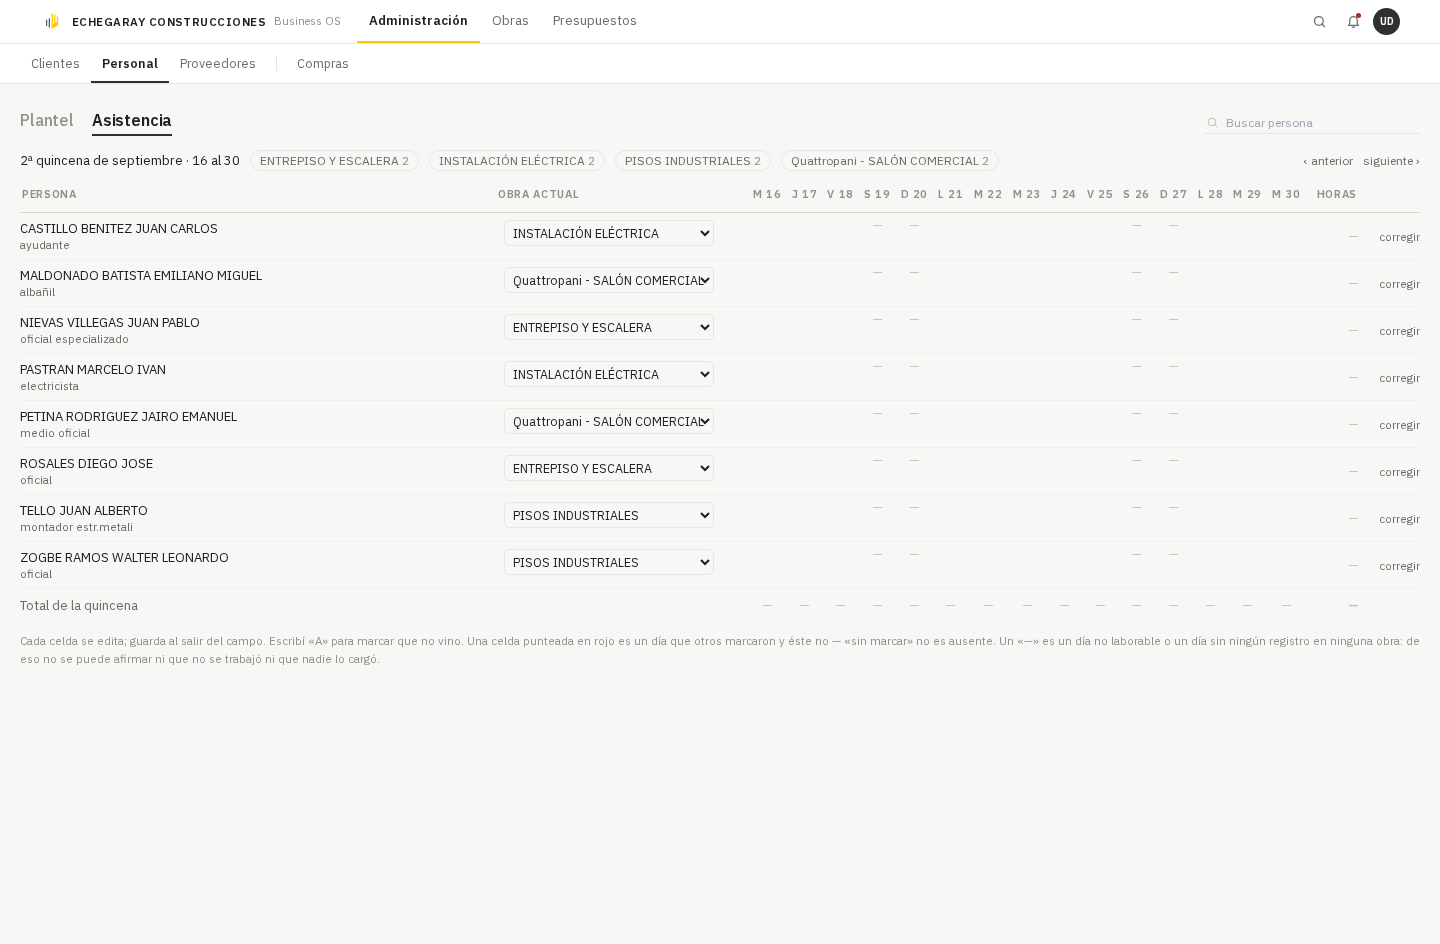
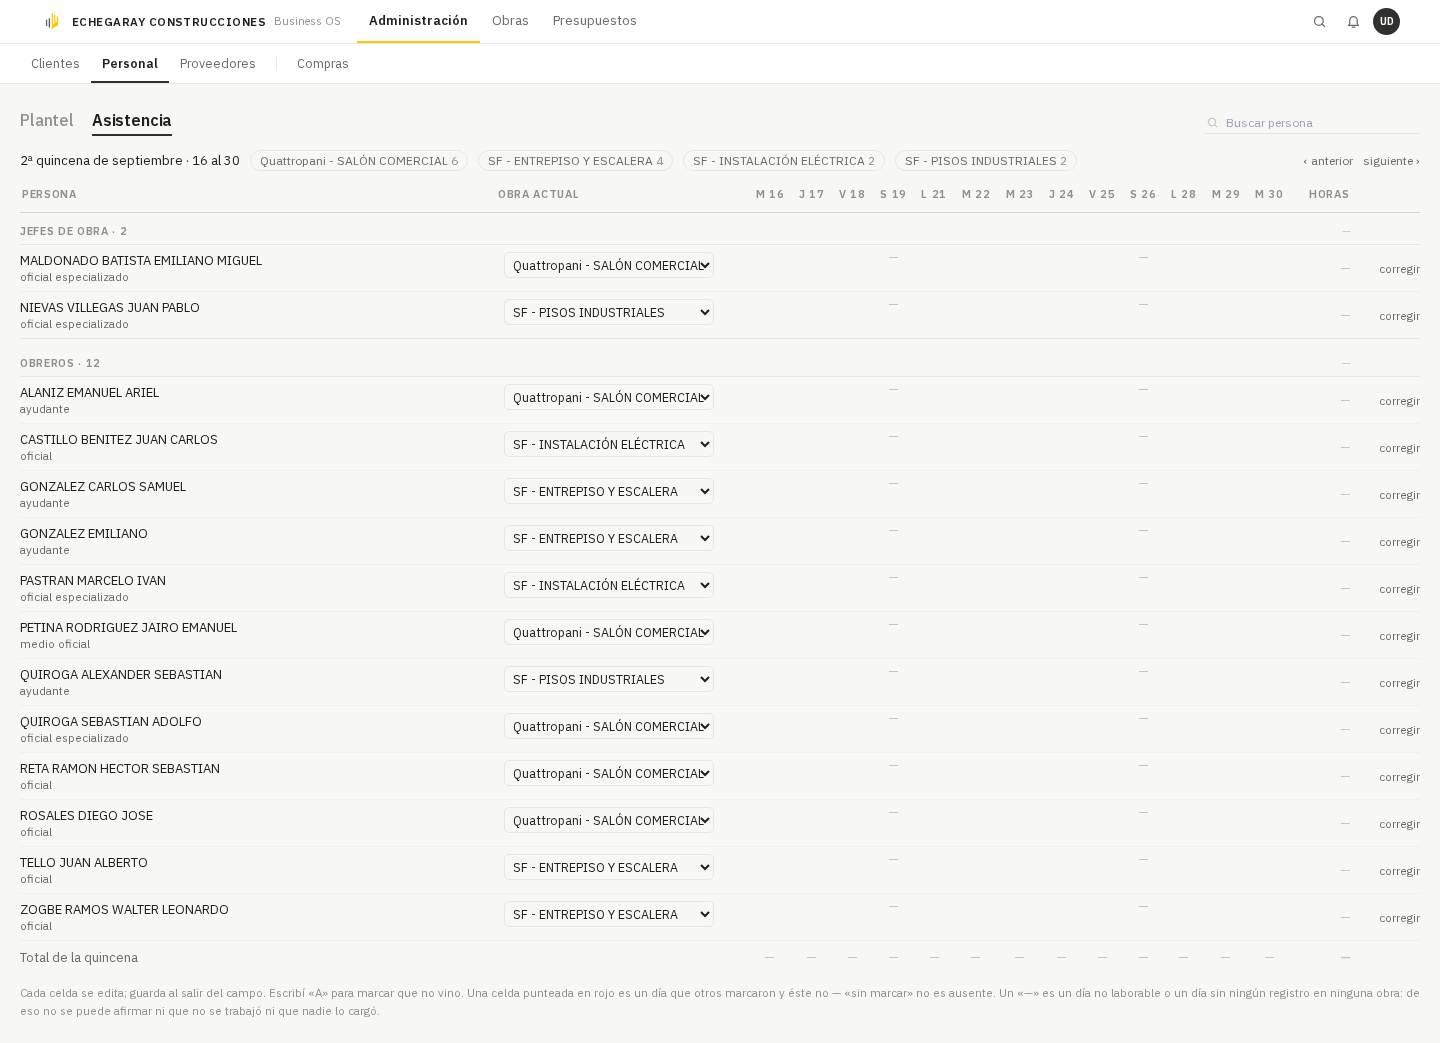
test(asistencia): el E2E afirma las dos secciones sin clavar quién es jefe
Lo que se prueba es el INVARIANTE: jefes primero, ninguna fila fuera de una
sección —la suma de los conteos de los rótulos tiene que dar exactamente las
filas dibujadas— y el «Total de la quincena» sigue existiendo y siendo global.

NO se clava que MALDONADO y NIEVAS sean los dos jefes: eso es dato vivo y un test
que lo fije se pone rojo el día que el dueño cargue un tercero, sin que ninguna
regla se haya roto. Qué campo decide el rol se prueba en vocabularioPersona.test.

Capturas del efecto en 1440: plantel-jefes-1440.png (Jefes de obra · 2 / Obreros ·
15) y asistencia-jefes-1440.png (mismos dos grupos, subtotal — y 569, total global
569).

diff --git a/echegaray-os/tests/asistencia-por-obra.spec.ts b/echegaray-os/tests/asistencia-por-obra.spec.ts
@@ -144,6 +144,48 @@ test('02 · la QUINCENA por obra abre en Administración → Personal', async ({
   await expect(page.getByTestId('vistas-personal')).toBeVisible()
 })
 
+// ═══ LOS DOS GRUPOS (dueño, 08/09/2026) ═══
+//
+// *«dividir en la pestaña asistencia y plantel a los jefes de obra del resto de los obreros»*.
+//
+// LO QUE SE AFIRMA ES EL INVARIANTE, NO QUIÉN ES JEFE HOY. Que MALDONADO y NIEVAS sean los dos
+// jefes es un dato vivo: mañana el dueño carga un tercero y un test que lo clave se pone rojo sin
+// que ninguna regla se haya roto. Lo que no puede cambiar es que los jefes vayan ARRIBA, que
+// ninguna fila quede fuera de una sección y que el total del pie los siga contando a todos.
+// El criterio en sí —qué campo lo decide— está probado en `vocabularioPersona.test.ts`.
+test('02c · la quincena se divide en JEFES DE OBRA y OBREROS, y el total sigue siendo de todos', async ({ page }) => {
+  await page.setViewportSize({ width: 1440, height: 900 })
+  await entrarComo(page, ADMIN.email, ADMIN.password)
+  await page.goto('/administracion/personas?vista=asistencia&quincena=2026-09-08')
+  await page.waitForLoadState('networkidle')
+  await expect(page.getByTestId('grilla-asistencia')).toBeVisible()
+
+  const rotulos = await page.getByTestId('fila-grupo').allInnerTexts()
+  const filas = await page.getByTestId('fila-quincena').count()
+
+  if (rotulos.length === 0) {
+    // NO HAY JEFES EN ESTA QUINCENA. Entonces NO puede haber un rótulo suelto: una sola sección se
+    // dibuja sin rótulo, que es como se veía la pantalla antes de este cambio.
+    expect(filas).toBeGreaterThan(0)
+    return
+  }
+
+  // JEFES PRIMERO, SIEMPRE. Si el orden se diera vuelta, este es el que se pone rojo.
+  expect(rotulos[0]).toContain('JEFE')
+  expect(rotulos[rotulos.length - 1]).toContain('OBRERO')
+
+  // NINGUNA FILA QUEDA FUERA DE UNA SECCIÓN. Los conteos del rótulo tienen que sumar exactamente
+  // las filas dibujadas: si el agrupamiento perdiera o duplicara a alguien, acá se ve.
+  const sumaDeRotulos = rotulos
+    .map((t) => Number(/·\s*(\d+)/.exec(t)?.[1] ?? '0'))
+    .reduce((a, b) => a + b, 0)
+  expect(sumaDeRotulos).toBe(filas)
+
+  // Y EL TOTAL DE LA QUINCENA SIGUE SIENDO GLOBAL: es la HH de la empresa en el período, no la de
+  // un grupo. Partirlo cambiaría lo que ese número significa.
+  await expect(page.getByTestId('total-quincena-valor')).toBeVisible()
+})
+
 test('02b · la quincena en el teléfono', async ({ page }) => {
   await page.setViewportSize({ width: 390, height: 844 })
   await entrarComo(page, ADMIN.email, ADMIN.password)
